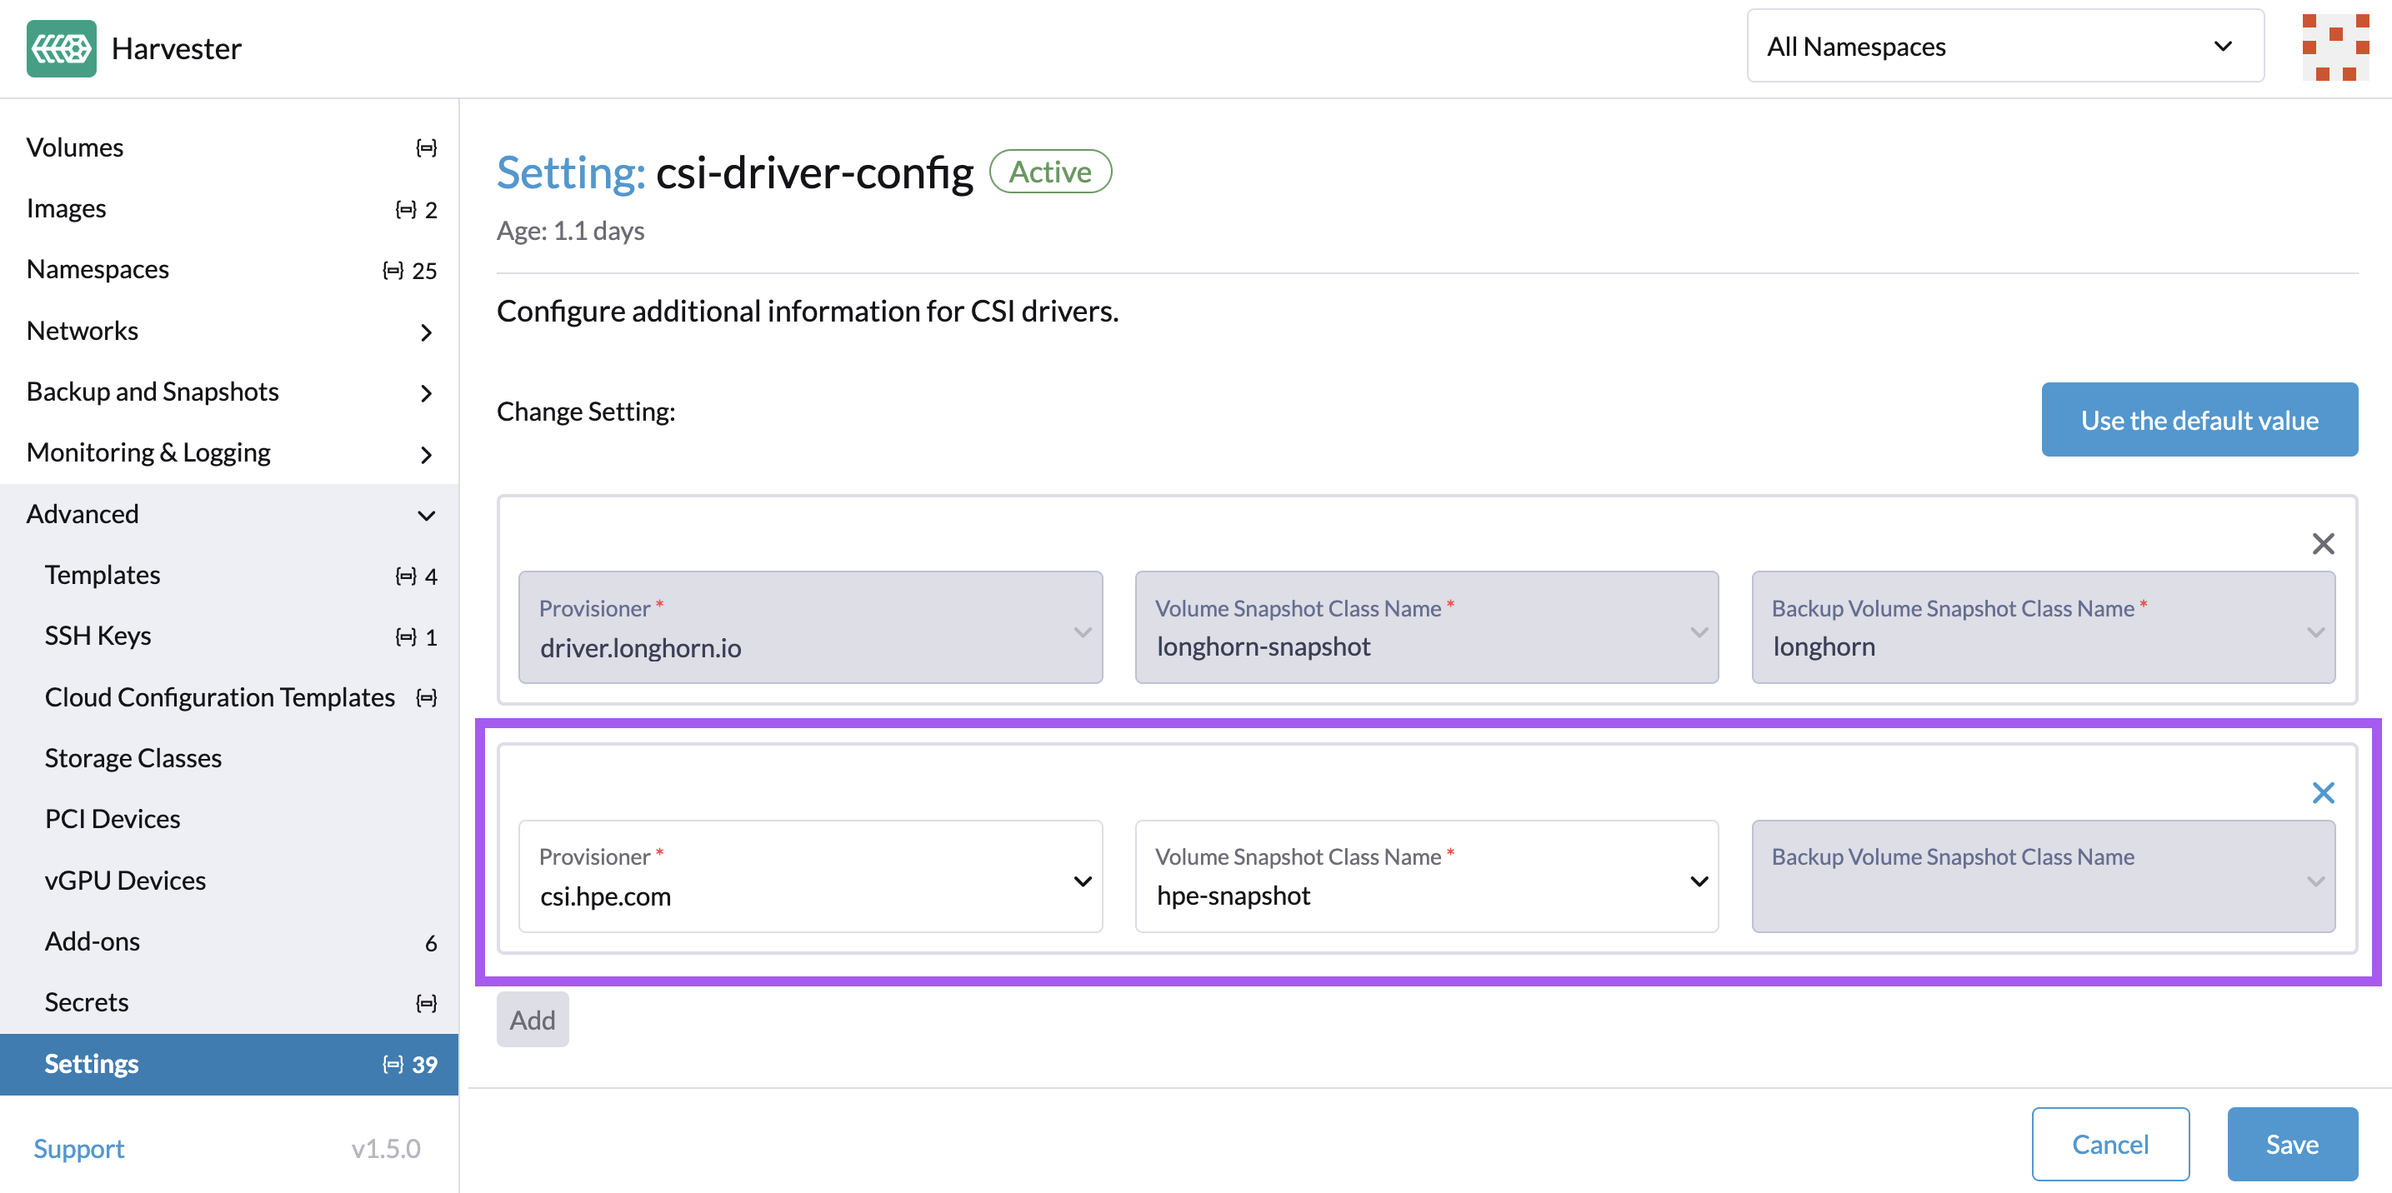
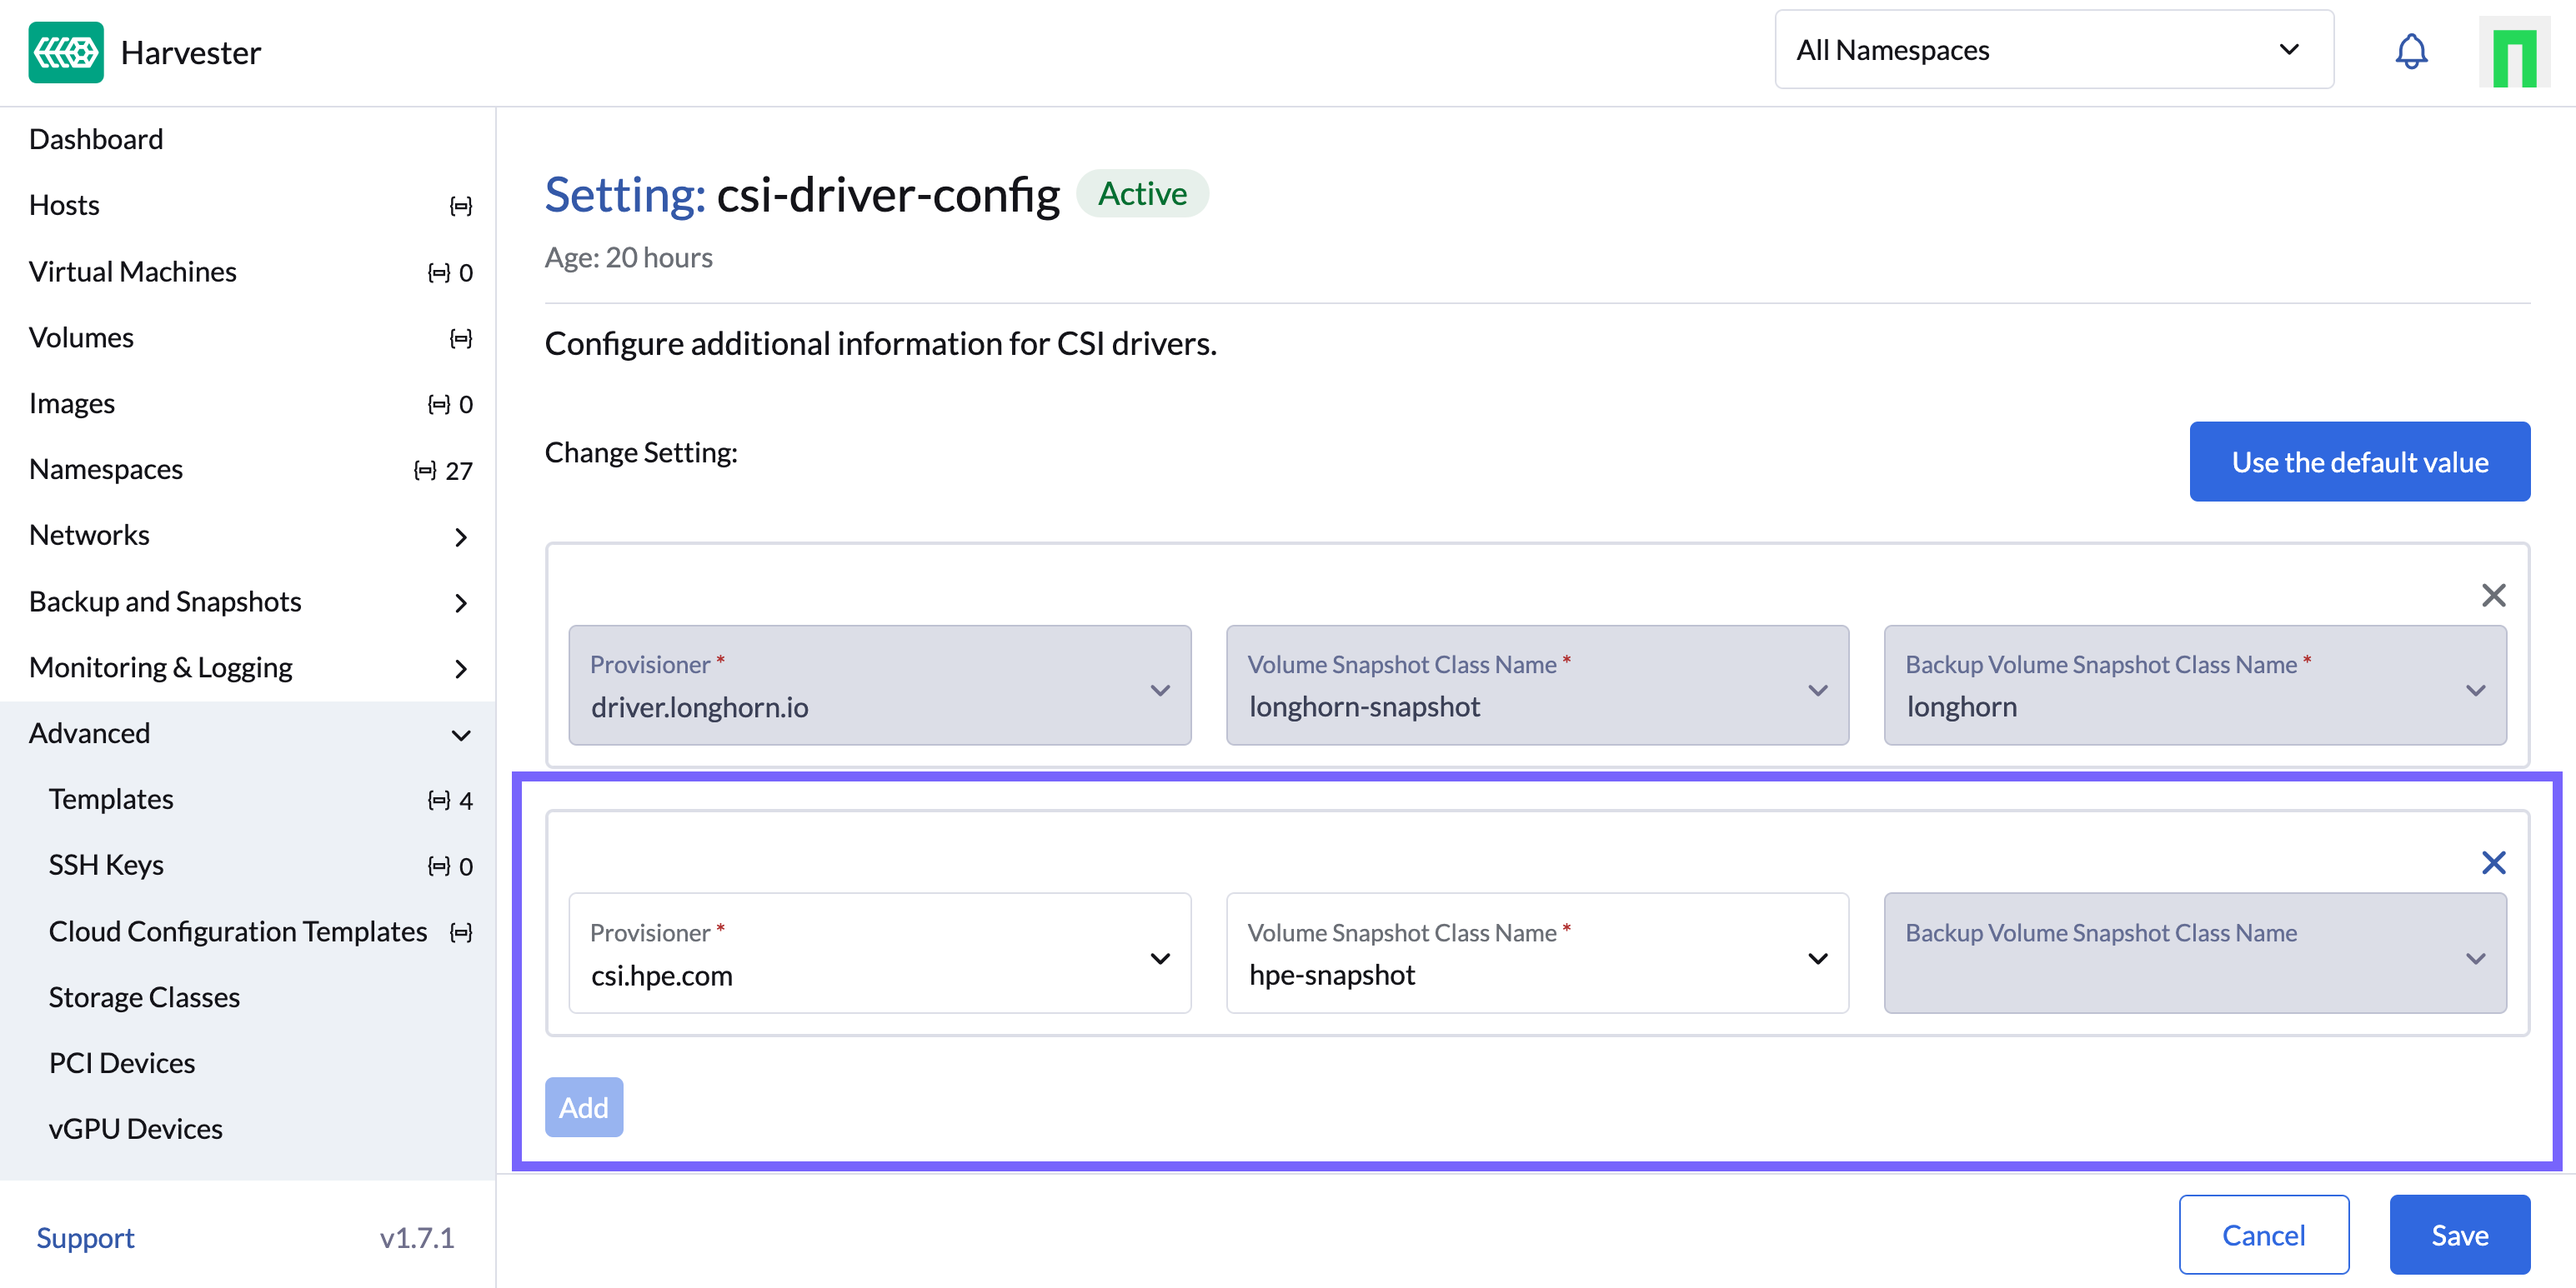
Harvester 1.7.1 and nits (#274)

diff --git a/docs/csi_driver/partners/suse_virtualization/index.md b/docs/csi_driver/partners/suse_virtualization/index.md
@@ -10,7 +10,7 @@
 
 ## Supportability
 
-HPE supports the underlying host OS, SLE Micro, using the HPE CSI Driver for Kubernetes and the Rancher Kubernetes Engine 2 (RKE2) which is a CNCF certified Kubernetes distribution. SUSE Virtualization (formerly Harvester) embeds KubeVirt and uses standard CSI storage constructs to manage storage resources for virtual machines.
+HPE supports the underlying host OS, SL Micro, using the HPE CSI Driver for Kubernetes and the Rancher Kubernetes Engine 2 (RKE2) which is a CNCF certified Kubernetes distribution. SUSE Virtualization (formerly Harvester) embeds KubeVirt and uses standard CSI storage constructs to manage storage resources for virtual machines.
 
 - Learn more about [Compatibility & Support](../../../csi_driver/index.md#compatibility_and_support)
 
@@ -25,20 +25,34 @@ Many of the features provided by Harvester stem from the capabilities of KubeVir
 
 These limitatons are framed around the integration of the HPE CSI Driver for Kubernetes and Harvester. Other limitations may apply.
 
-### iSCSI Networking
+### iSCSI and NVMe/TCP Networking
 
-As per best practice HPE recommends using dedicated iSCSI networks for data traffic between the Harvester nodes and the storage platform.
+As per best practice HPE recommends using dedicated networks for data traffic between the Harvester nodes and the storage platform.
 
 Ancillary network configuration of Harvester nodes is managed as a post-install step. Creating network configuration files for Harvester nodes is beyond the scope of this document. Follow the guides provided by Harvester.
 
-- [Update Harvester Configuration After Installation](https://docs.harvesterhci.io/v1.5/install/update-harvester-configuration)
+- [Update Harvester Configuration After Installation](https://docs.harvesterhci.io/latest/install/update-harvester-configuration)
 
-#### Example iSCSI Configuration
+#### Example Configuration
+
+Harvester 1.7 and later uses `nmcli` to persist network configuration. In a typical scenario where two physical interfaces are connected to an "A" and "B" network where each network provide DHCP, simply activate the interfaces. See the next section for older versions of Harvester.
+
+Log in as "rancher" on each compute node and run:
+
+```text
+sudo nmcli device connect eno50
+sudo nmcli device connect eno51
+```
+
+!!! tip
+    The "eno50" and "eno51" interfaces above are used as examples. Use `nmcli device` to list available interfaces and use `nmcli -h` for more examples on how to apply a static configuration or set custom MTU sizes.
+
+##### Any Harvester version prior to v1.7
 
 In a typical setup the IP addresses are assigned by DHCP on the NIC directly without any bridges, VLANs or bonds. Network interface configuration on Harvester are part of the node boot strap process post-install. Create the file `/oem/89_hpe-csi-iscsi.yaml` described below on each compute node to reflect a typical configuration.
 
 ```text
-name: HPE CSI Driver for Kubernetes iSCSI configuration
+name: HPE CSI Driver for Kubernetes data network configuration
 stages:
   initramfs:
     - commands: []
@@ -69,7 +83,7 @@ stages:
 
 Reboot the node and verify that IP addresses have been assigned to the NICs by running `ip addr show dev <interface name>` on the compute node prompt.
 
-- Learn more about [Harvester networking](https://docs.harvesterhci.io/v1.5/networking/index) in the official docs.
+- Learn more about [Harvester networking](https://docs.harvesterhci.io/latest/networking/index) in the official docs.
 
 ## Installing HPE CSI Driver for Kubernetes
 

diff --git a/docs/csi_driver/index.md b/docs/csi_driver/index.md
@@ -147,7 +147,7 @@ Upgrade considerations:
  <sup>1</sup> = For HPE Morpheus Enterprise Kubernetes Service (HKS), HPE Ezmeral Runtime Enterprise, SUSE Rancher, Mirantis Kubernetes Engine and others; Kubernetes clusters must be deployed within the currently supported range of "Worker OS" platforms listed in the above table. See [partner ecosystems](partners/index.md) for other variations. Lowest tested and known working version is Kubernetes 1.21<!-- and it has been field tested with Kubernetes 1.34 -->.<br />
  <sup>2</sup> = The HPE CSI Driver will recognize AlmaLinux, Amazon Linux, CentOS, Oracle Linux and Rocky Linux as RHEL derives and they are supported by HPE. While RHEL 7 and its derives will work, the host OS have been EOL'd and support is limited.<br/>
  <sup>3</sup> = Learn about each data platform's team [support commitment](../legal/support/index.md#container_storage_providers).<br/>
- <sup>4</sup> = SL Micro nodes may need to be conformed manually, run `transactional-update -n pkg install multipath-tools open-iscsi nfs-client sg3_utils` and reboot if the CSI node driver doesn't start.<br/>
+ <sup>4</sup> = SL Micro nodes may need to be conformed manually, run `transactional-update -n pkg install multipath-tools open-iscsi nfs-client sg3_utils nvme-cli` and reboot if the CSI node driver doesn't start.<br/>
 </small>
 
 #### HPE CSI Driver for Kubernetes 3.0.1
